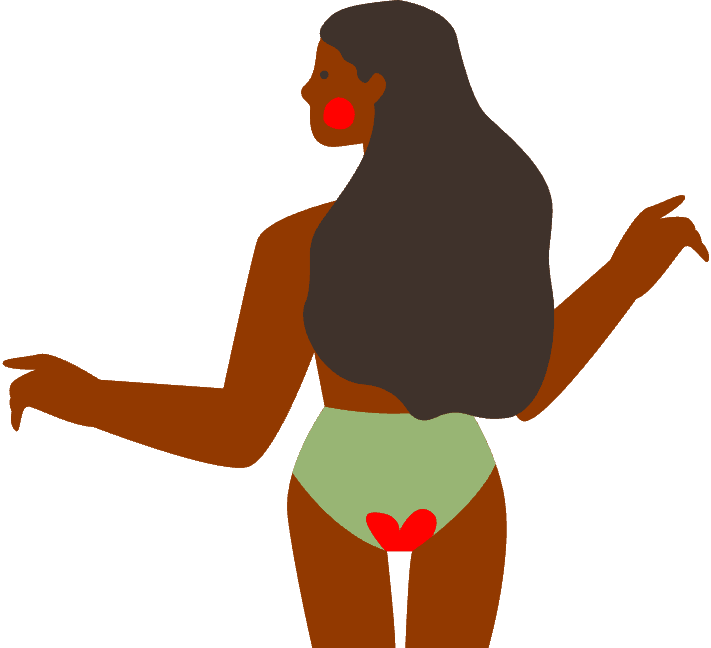
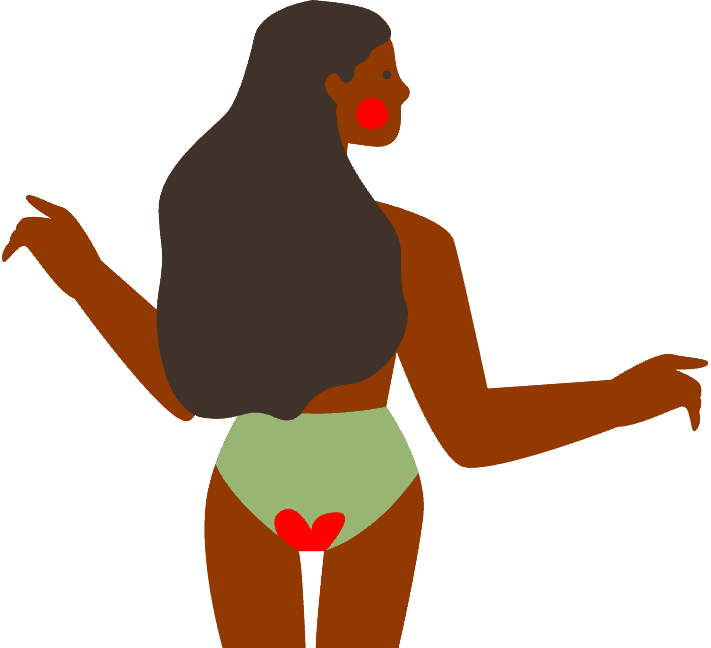
Replaced picture
Replaced picture with new one and added with it new animation.

diff --git a/style/style.css b/style/style.css
@@ -196,16 +196,22 @@ top:1%;
   left:10%;
  
 }
-#daughterWhite{
+#daughterBrown{
   width:27vw;
   z-index:0;
-  -webkit-transform: scaleX(-1);
-  transform: scaleX(-1);
   height: auto;
   position: absolute;
   bottom:-0.5%;
   left:2%;
- 
+ animation: gaze 5.5s ease-in-out infinite
+
+}
+@keyframes gaze{
+  0%{transform:rotateZ(0deg);}
+  25%{ transform: rotateZ(-3deg); }
+  50%{transform:rotateZ(-5deg);}
+  75% { transform: rotateZ(-3deg); }
+  100% { transform: rotateZ(0deg); }
 }
 #green_flower{
 width:15vw;
@@ -389,10 +395,11 @@ margin-right:auto;
 }
 
 @keyframes jiggle {
-  0%{transform: rotate(-0deg);}
-  25%{ transform: rotate(-8deg); }
-  75% { transform: rotate(8deg); }
-  100% { transform: rotate(0deg); }
+  0%{transform:rotateZ(0deg);}
+  25%{ transform: rotateZ(-3deg); }
+  50%{transform:rotateZ(-5deg);}
+  75% { transform: rotateZ(3deg); }
+  100% { transform: rotateZ(0deg); }
 }
 
 .wobble{
@@ -412,7 +419,7 @@ margin-right:auto;
 @keyframes shrink{
   0% {  transform: scale(1);}
   50%{transform: scale(0.9);}
-  100%{}
+  
 }
 
 

diff --git a/index.html b/index.html
@@ -60,7 +60,7 @@ period poverty and how we can address it-->
         <section id="IntroToMenstrualCycle">
             <h1 class="TopicHeading">Introduction to the <span style="font-family: Dancing Script;">Menstrual Cycle</span></h1>
        <img class="achingImage"id="green_flower" src="images/flower6.png">
-            <img class="achingImage" id=daughterWhite src="images/daughterW.png" alt="">
+            <img class="achingImage" id=daughterBrown src="images/daughter7.png" alt="">
         <img class="achingImage"id="brownFern"src="images/brown1.png">
         <img class="achingImage"id="spottyPinkPad" src="images/pinkPad.png">
     </section>
